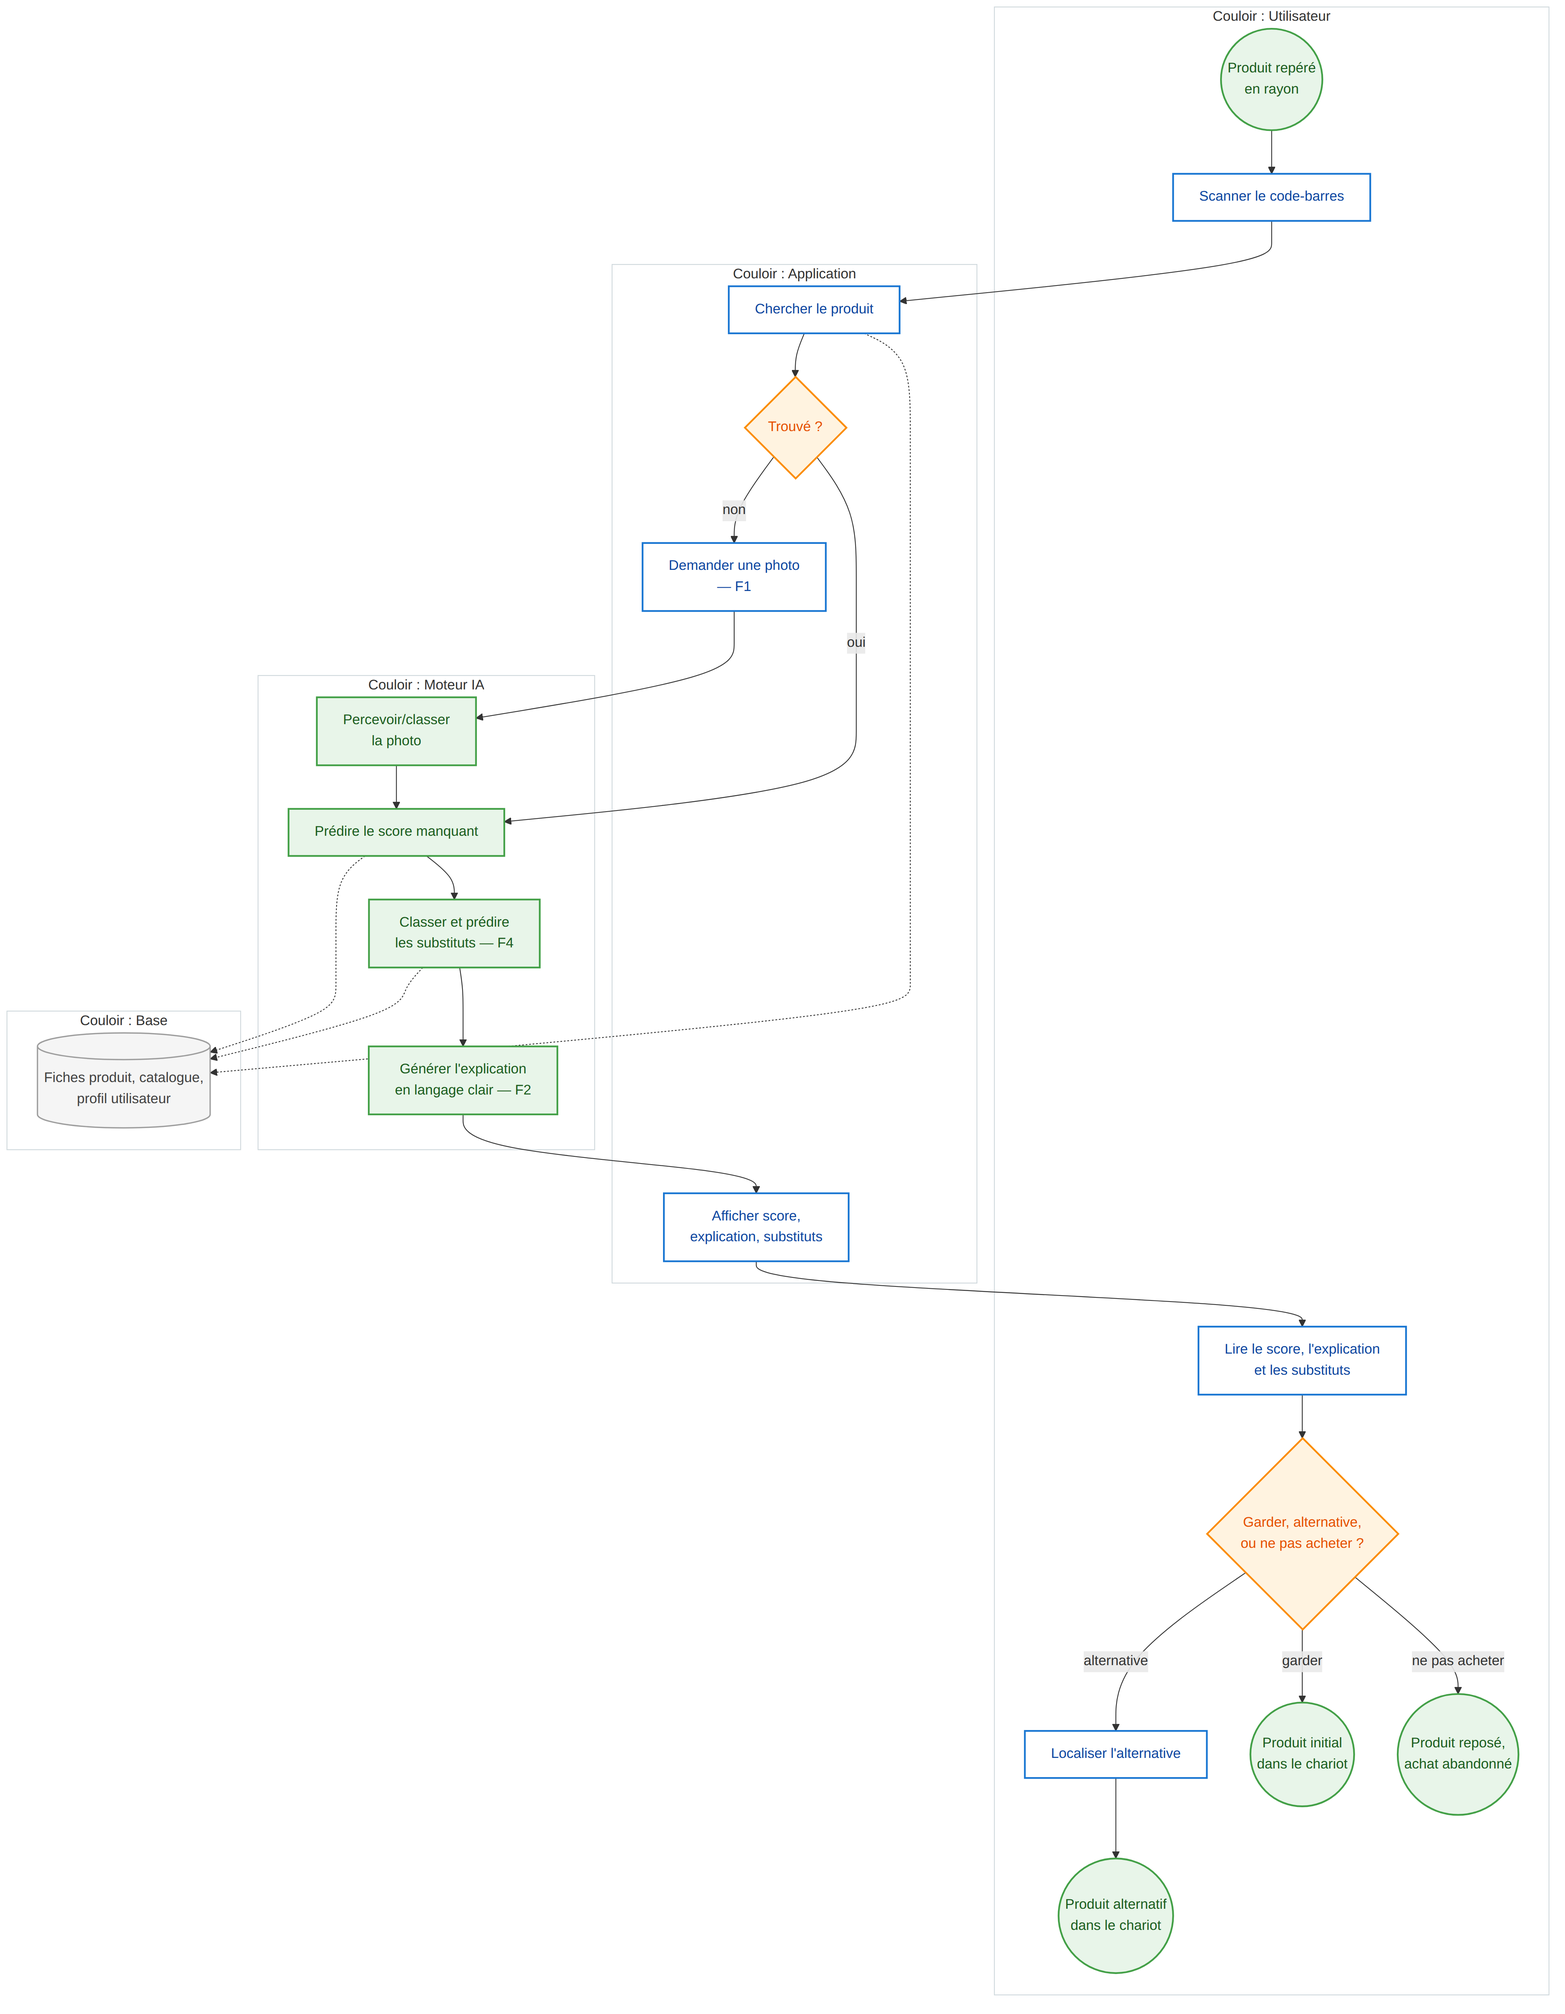
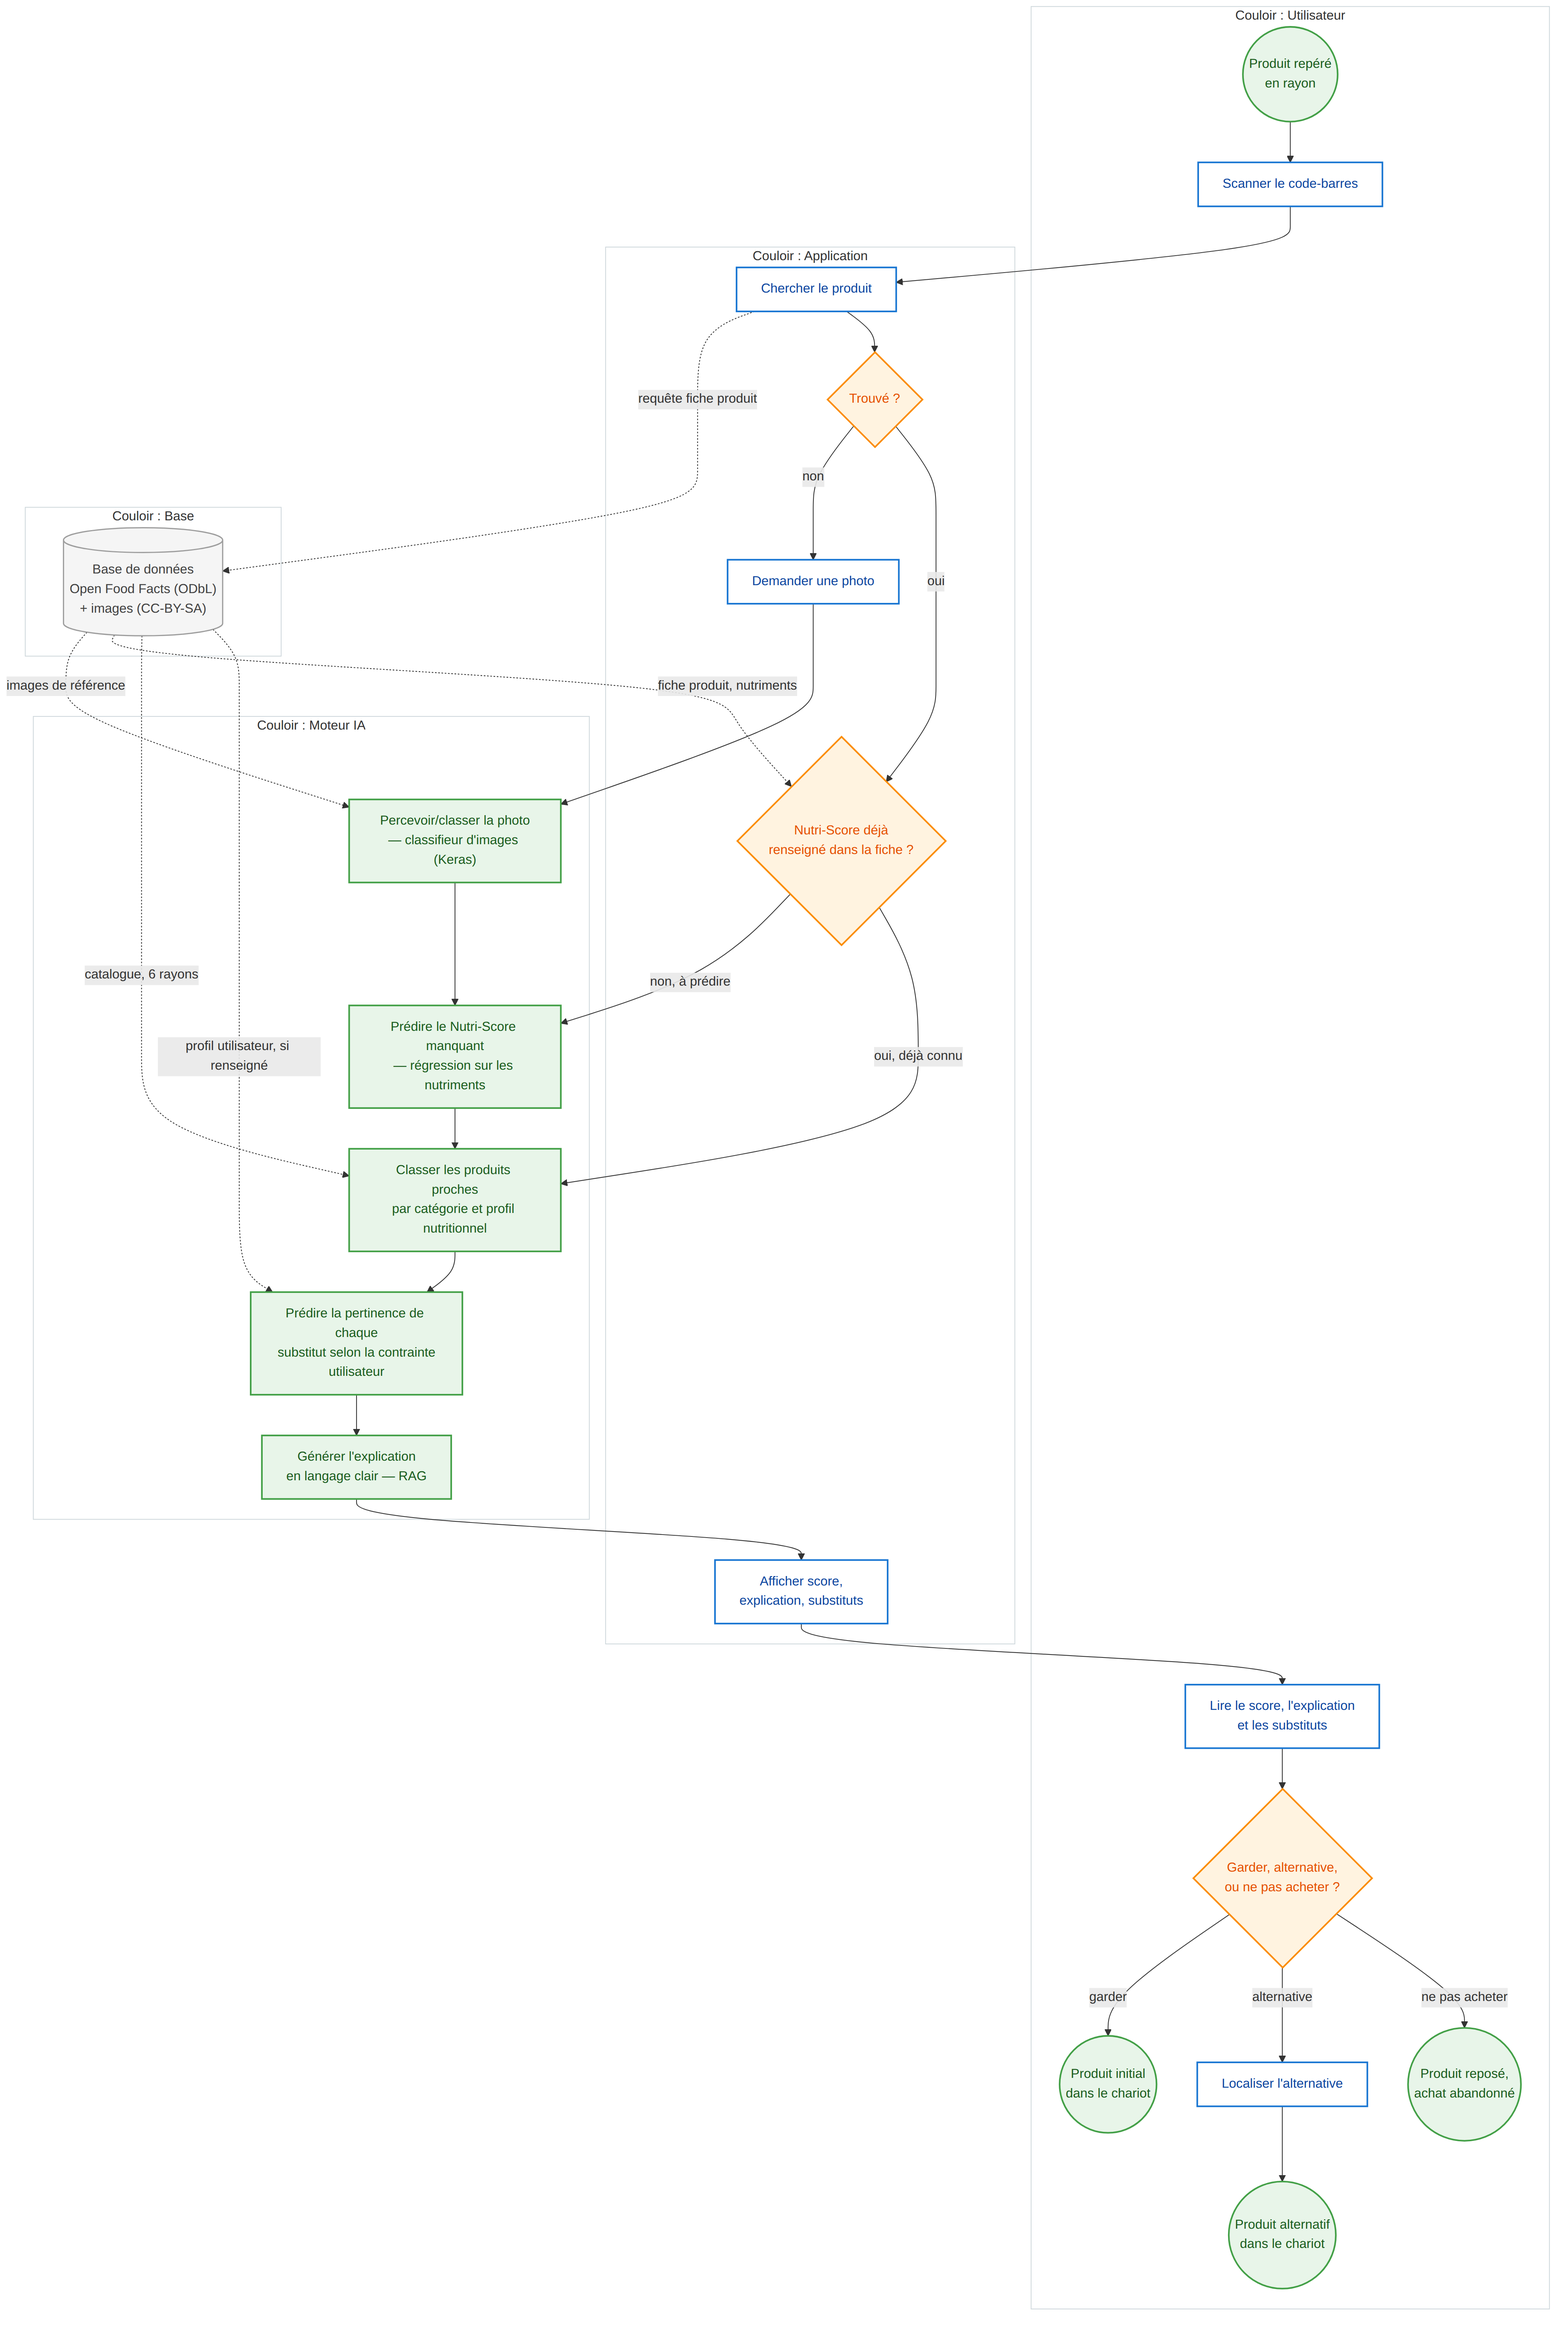
modif des diagrammes après review

diff --git a/docs/cadrage/processus.md b/docs/cadrage/processus.md
@@ -8,16 +8,17 @@ Le tableau qui suit l'as-is numérote et qualifie (fréquence, temps perdu, cons
 
 ## Carte as-is — sans NutriScope
 
-Le même déclencheur (« produit repéré en rayon, doute sur sa qualité ») débouche sur quatre comportements réels observés chez nos personas : Léa (famille pressée) et Thomas (restaurateur) utilisent surtout Yuka en rayon ; Inès (étudiante) et Sophie (diabétique) basculent plus souvent vers la lecture d'étiquette ou le renoncement faute de réponse adaptée à leur contrainte (budget, pathologie) ; la recherche web intervient rarement en rayon et plutôt après coup, à la maison. Quel que soit le chemin pris, l'utilisatrice finit par une même décision à deux issues : acheter, ou reposer le produit. Le détail de chaque friction (fréquence, temps perdu, conséquence) est dans le tableau qui suit le schéma — la carte elle-même ne porte que leur numéro.
+Le même déclencheur (« produit repéré en rayon, doute sur sa qualité ») débouche sur quatre comportements réels observés chez nos personas (TP 5) : lecture d'étiquette, scan Yuka, recherche web, ou aucune vérification. Léa (famille pressée) utilise surtout Yuka en rayon ; Inès (étudiante) et Sophie (diabétique) basculent plus souvent vers la lecture d'étiquette ou le renoncement, faute de réponse adaptée à leur contrainte (budget, pathologie) ; la recherche web intervient rarement en rayon et plutôt après coup, à la maison. Quel que soit le chemin pris, l'utilisatrice finit par une même décision à deux issues : acheter, ou reposer le produit. Le détail de chaque friction (fréquence, temps perdu, conséquence) est dans le tableau qui suit le schéma — la carte elle-même ne porte que leur numéro.
 
 ```mermaid
 flowchart TD
     subgraph LaneUser["Couloir : Utilisateur"]
-        Start(("Produit repéré<br/>en rayon"))
+        Start(("Produit repéré en rayon,<br/>doute sur sa qualité"))
         Decide{"Que fait-elle ?"}
-        ReadLabel["Lire l'étiquette<br/>— F2"]
-        WebSearch["Chercher sur le web<br/>— F3"]
-        NoCheck["Acheter sans vérifier<br/>— F6"]
+        ReadLabel["Lire l'étiquette<br/>nutritionnelle"]
+        Interpret{"Valeurs et jargon<br/>compréhensibles ?"}
+        GiveUp["Renoncer à comprendre,<br/>décider au feeling"]
+        NoCheck["Acheter sans vérifier"]
         FinalGw{"Achète-t-elle<br/>le produit ?"}
         EndBuy(("Produit dans<br/>le chariot"))
         EndNoBuy(("Produit reposé,<br/>achat abandonné"))
@@ -25,17 +26,34 @@ flowchart TD
 
     subgraph LaneYuka["Couloir : Application tierce (Yuka)"]
         ScanYuka["Scanner avec Yuka"]
-        FoundGw{"Produit trouvé ?"}
-        ShowScore["Afficher score<br/>et alternative — F4"]
+        FoundGw{"Produit trouvé<br/>dans Yuka ?"}
+        ShowScore["Afficher le score et l'explication<br/>— sans alternative"]
+        ScoreGw{"Score jugé<br/>satisfaisant ?"}
+        AltMethodGw{"Cherche une alternative<br/>elle-même : où ?"}
+    end
+
+    subgraph LaneWeb["Couloir : Web / entourage"]
+        WebSearch["Chercher avis,<br/>composition, forums"]
+        MultiTab["Comparer plusieurs<br/>sources"]
     end
 
     Start --> Decide
-    Decide -- "étiquette" --> ReadLabel --> FinalGw
+    Decide -- "étiquette" --> ReadLabel --> Interpret
+    Interpret -- "non" --> GiveUp --> FinalGw
+    Interpret -- "oui" --> FinalGw
+
     Decide -- "Yuka" --> ScanYuka --> FoundGw
-    FoundGw -- "non — F1" --> ReadLabel
-    FoundGw -- "trouvé" --> ShowScore --> FinalGw
-    Decide -- "web" --> WebSearch --> FinalGw
+    FoundGw -- "non" --> ReadLabel
+    FoundGw -- "trouvé" --> ShowScore --> ScoreGw
+    ScoreGw -- "oui" --> FinalGw
+    ScoreGw -- "non" --> AltMethodGw
+    AltMethodGw -- "rescanne d'autres<br/>produits du rayon" --> ScanYuka
+    AltMethodGw -- "cherche sur le web" --> WebSearch
+
+    Decide -- "web" --> WebSearch --> MultiTab --> FinalGw
+
     Decide -- "rien" --> NoCheck --> EndBuy
+
     FinalGw -- "oui" --> EndBuy
     FinalGw -- "non" --> EndNoBuy
 
@@ -43,24 +61,22 @@ flowchart TD
     classDef act fill:#ffffff,stroke:#1976d2,stroke-width:2px,color:#0d47a1
     classDef gw fill:#fff3e0,stroke:#fb8c00,stroke-width:2px,color:#e65100
     class Start,EndBuy,EndNoBuy evt
-    class Decide,FoundGw,FinalGw gw
-    class ReadLabel,WebSearch,NoCheck,ScanYuka,ShowScore act
+    class Decide,FoundGw,FinalGw,Interpret,ScoreGw,AltMethodGw gw
+    class ReadLabel,GiveUp,WebSearch,MultiTab,NoCheck,ScanYuka,ShowScore act
     style LaneUser fill:#ffffff,stroke:#cfd8dc,stroke-width:1px
     style LaneYuka fill:#ffffff,stroke:#cfd8dc,stroke-width:1px
+    style LaneWeb fill:#ffffff,stroke:#cfd8dc,stroke-width:1px
 ```
-
-*F5 (Thomas, achats professionnels) n'apparaît pas comme une case du schéma : c'est cette boucle entière qui est rejouée à l'identique, produit par produit, sans vue d'ensemble sur un rayon — une friction sur la répétition, pas sur une étape précise.*
 
 ### Tableau des frictions (as-is)
 
 | # | Friction | Type | Fréquence | Temps perdu | Conséquence |
 |---|---|---|---|---|---|
-| F1 | Produit non reconnu par Yuka (marques distributeur, produits food-service) | Rupture d'information | Fréquente pour Thomas (produits pro peu référencés) ; occasionnelle pour Léa/Inès/Sophie sur les marques de distributeur | 30 à 60 s de blocage en rayon avant de basculer vers l'étiquette | Abandon du contrôle nutritionnel, achat « par défaut » |
-| F2 | Étiquette trop complexe à interpréter (tableau, jargon, %AJR) | Variabilité | Quasi systématique sans appli, ou en repli après un F1 | 1 à 2 min par produit, enfants qui attendent (Léa) ou file pro (Thomas) | Décision « au feeling », perte de temps |
+| F1 | Produit non reconnu par Yuka (marques distributeur) | Rupture d'information | Occasionnelle, surtout sur les marques distributeur | 30 à 60 s de blocage en rayon avant de basculer vers l'étiquette | Abandon du contrôle nutritionnel, achat « par défaut » |
+| F2 | Étiquette trop complexe à interpréter (tableau, jargon, %AJR) | Variabilité | Quasi systématique sans appli, ou en repli après un F1 | 1 à 2 min par produit, enfants qui attendent (Léa) | Décision « au feeling », perte de temps |
 | F3 | Recherche web dispersée, rarement faite en rayon | Attente | Rare en magasin ; plus fréquente le soir, après achat (Sophie) | 5 à 15 min, hors du parcours d'achat | Apprentissage a posteriori seulement, risque de reproduire le même achat |
-| F4 | Alternative Yuka non pertinente au regard d'une contrainte individuelle (budget, diabète) | Rupture d'information | Systématique pour les profils à contrainte | 2 à 3 min de plus pour revérifier soi-même | Perte de confiance dans l'outil, retour au choix par prix ou marque |
-| F5 | Boucle rejouée à l'identique lors d'achats pro (Thomas), sans vue d'ensemble sur un rayon | Décision manuelle répétitive | Dizaines de fois par session chez METRO | Temps cumulé important sur une session | Comparaison abandonnée après quelques produits |
-| F6 | Aucune vérification faute de temps | Erreur et retour arrière | Fréquente en forte contrainte de temps | 0 en rayon, reporté (regret a posteriori) | Pas d'amélioration du choix dans la durée |
+| F4 | Yuka ne propose aucune alternative : score et explication seulement, même si le produit ne convient pas (budget, diabète) | Rupture d'information | Systématique dès que le score est mauvais, plus pénalisant pour les profils à contrainte | 2 à 3 min pour chercher soi-même une alternative, en rescannant d'autres produits du rayon ou sur le web | Comparaison manuelle non systématique, perte de confiance dans l'outil |
+| F5 | Aucune vérification faute de temps | Erreur et retour arrière | Fréquente en forte contrainte de temps | 0 en rayon, reporté (regret a posteriori) | Pas d'amélioration du choix dans la durée |
 
 ## Carte to-be — avec NutriScope
 
@@ -80,30 +96,38 @@ flowchart TD
     subgraph LaneApp["Couloir : Application"]
         Search["Chercher le produit"]
         FoundGw{"Trouvé ?"}
-        AskPhoto["Demander une photo<br/>— F1"]
+        AskPhoto["Demander une photo"]
+        NutriScoreGw{"Nutri-Score déjà<br/>renseigné dans la fiche ?"}
         Display["Afficher score,<br/>explication, substituts"]
     end
 
     subgraph LaneIA["Couloir : Moteur IA"]
-        Classify["Percevoir/classer<br/>la photo"]
-        Predict["Prédire le score manquant"]
-        FindSubs["Classer et prédire<br/>les substituts — F4"]
-        Generate["Générer l'explication<br/>en langage clair — F2"]
+        Classify["Percevoir/classer la photo<br/>— classifieur d'images (Keras)"]
+        Predict["Prédire le Nutri-Score manquant<br/>— régression sur les nutriments"]
+        FindSubs["Classer les produits proches<br/>par catégorie et profil nutritionnel"]
+        FilterConstraint["Prédire la pertinence de chaque<br/>substitut selon la contrainte<br/>utilisateur"]
+        Generate["Générer l'explication<br/>en langage clair — RAG"]
     end
 
     subgraph LaneData["Couloir : Base"]
-        Data[("Fiches produit, catalogue,<br/>profil utilisateur")]
+        Base[("Base de données<br/>Open Food Facts (ODbL)<br/>+ images (CC-BY-SA)")]
     end
 
     Start --> Scan --> Search
-    Search -.-> Data
+    Search -.->|"requête fiche produit"| Base
     Search --> FoundGw
-    FoundGw -- "non" --> AskPhoto --> Classify --> Predict
-    FoundGw -- "oui" --> Predict
-    Predict -.-> Data
+    FoundGw -- "non" --> AskPhoto --> Classify
+    Base -.->|"images de référence"| Classify
+    Classify --> Predict
+    FoundGw -- "oui" --> NutriScoreGw
+    Base -.->|"fiche produit, nutriments"| NutriScoreGw
+    NutriScoreGw -- "non, à prédire" --> Predict
+    NutriScoreGw -- "oui, déjà connu" --> FindSubs
     Predict --> FindSubs
-    FindSubs -.-> Data
-    FindSubs --> Generate --> Display --> ReadResult
+    Base -.->|"catalogue, 6 rayons"| FindSubs
+    FindSubs --> FilterConstraint
+    Base -.->|"profil utilisateur, si renseigné"| FilterConstraint
+    FilterConstraint --> Generate --> Display --> ReadResult
     ReadResult --> ChooseGw
     ChooseGw -- "garder" --> EndKeep
     ChooseGw -- "alternative" --> LocateAlt --> EndAlt
@@ -115,17 +139,17 @@ flowchart TD
     classDef ia fill:#e8f5e9,stroke:#43a047,stroke-width:2px,color:#1b5e20
     classDef data fill:#f5f5f5,stroke:#9e9e9e,stroke-width:1.5px,color:#424242
     class Start,EndKeep,EndAlt,EndNoBuy evt
-    class ChooseGw,FoundGw gw
+    class ChooseGw,FoundGw,NutriScoreGw gw
     class Scan,Search,AskPhoto,Display,LocateAlt,ReadResult act
-    class Classify,Predict,FindSubs,Generate ia
-    class Data data
+    class Classify,Predict,FindSubs,FilterConstraint,Generate ia
+    class Base data
     style LaneUser fill:#ffffff,stroke:#cfd8dc,stroke-width:1px
     style LaneApp fill:#ffffff,stroke:#cfd8dc,stroke-width:1px
     style LaneIA fill:#ffffff,stroke:#cfd8dc,stroke-width:1px
     style LaneData fill:#ffffff,stroke:#cfd8dc,stroke-width:1px
 ```
 
-Le to-be ferme F1, F2, F3 (contrôle fait désormais en rayon) et F6 (vérification enfin assez rapide) ; F4 est traité en injectant le profil (budget, diabète) dans la recherche de substituts. Ne pas acheter devient une issue nommée : un produit reposé faute de bonne alternative est un succès du parcours, pas un échec — une donnée à mesurer au même titre qu'un achat. F5 (achats professionnels de Thomas, produit par produit) n'est pas résolu : c'est une limite assumée de ce périmètre.
+Le to-be ferme les cinq frictions de l'as-is : F1 et F3 disparaissent derrière une recherche fiable et un contrôle fait désormais en rayon, F2 derrière une explication générée en langage clair, F5 devient possible parce que la vérification est enfin assez rapide pour tenir dans les quelques secondes disponibles. F4 (Yuka n'offre aucune alternative) est traité à la racine : l'application cherche elle-même un substitut, filtré par le profil (budget, diabète) si connu, là où Yuka s'arrête au score. Ne pas acheter devient une issue nommée : un produit reposé faute de bonne alternative est un succès du parcours, pas un échec — une donnée à mesurer au même titre qu'un achat.
 
 ## Les trois activités où l'IA intervient
 
